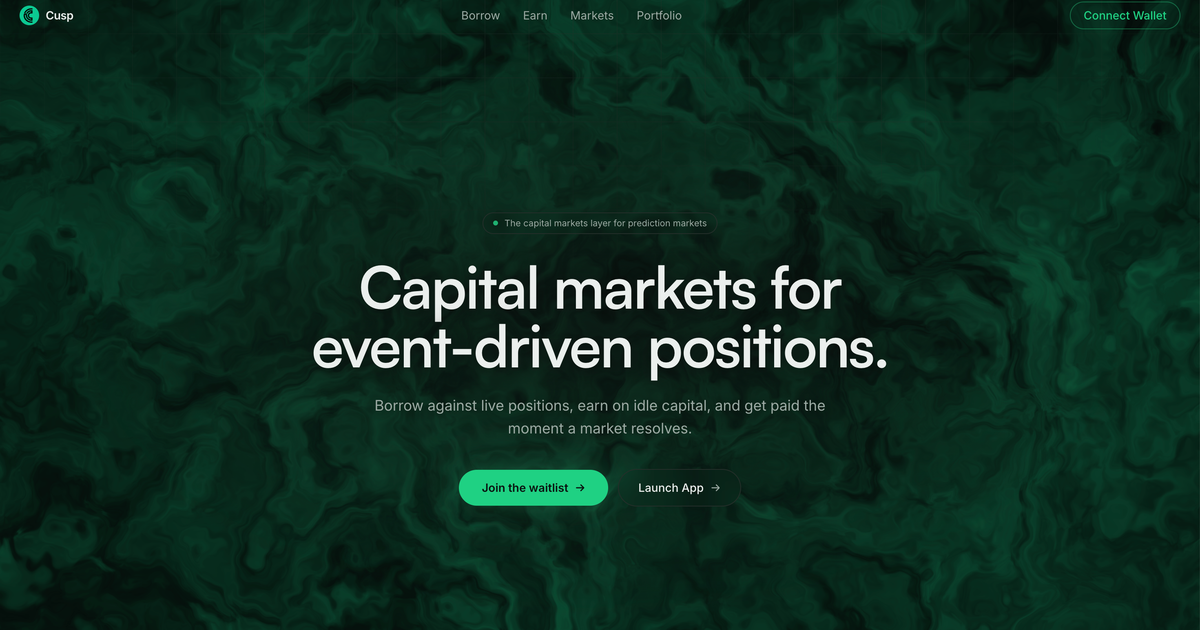
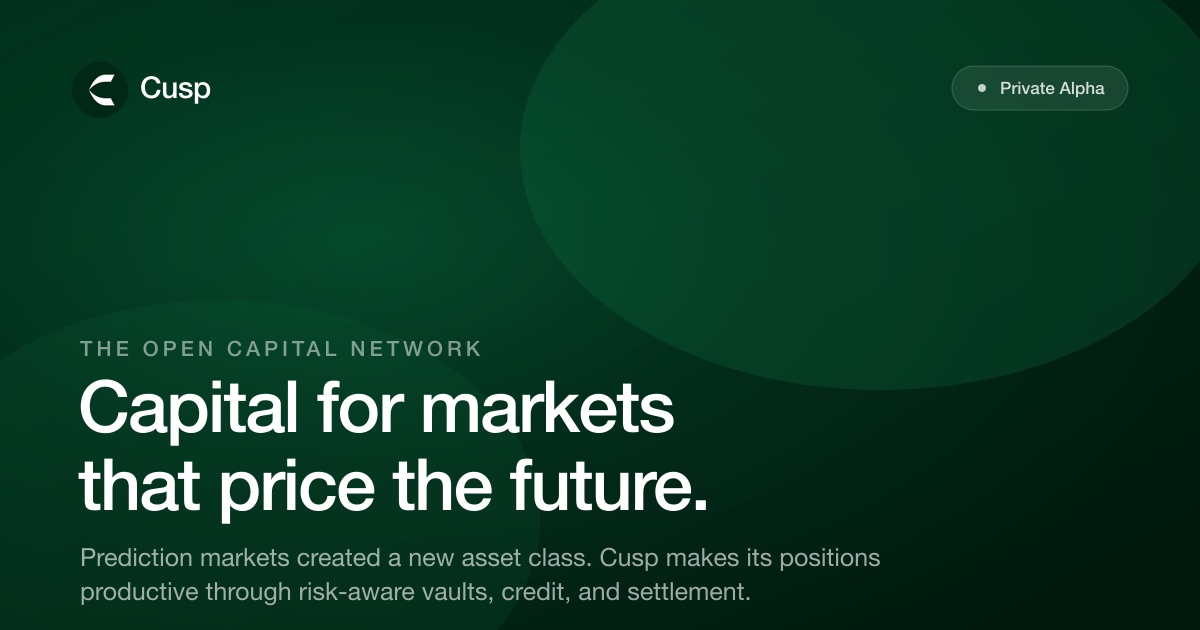
Refresh OG share card and tagline to new branding
- Regenerate og-image.png as a composed on-brand card (dark-green, new
  logo, "Capital for markets that price the future" hero) instead of a
  stale screenshot of the old landing
- Rewrite generate-og-image.mjs to compose the card directly (no capture)
- Update tagline "The capital markets layer for prediction markets" ->
  "Open capital for markets that price the future" across title, OG/Twitter
  meta, SEO default, Index hero, and Footer

diff --git a/index.html b/index.html
@@ -9,7 +9,7 @@
     <meta name="viewport" content="width=device-width, initial-scale=1.0" />
     <meta name="theme-color" content="#1fd184" />
     <meta name="color-scheme" content="dark light" />
-    <title>Cusp — The capital markets layer for prediction markets</title>
+    <title>Cusp — Open capital for markets that price the future</title>
     <meta name="description" content="Cusp is the capital markets layer for prediction markets on Solana. Borrow against live positions, earn on idle capital, and get paid the moment a market resolves.">
     <meta name="keywords" content="prediction markets, Solana, DeFi, lending, borrow, outcome tokens, yield, capital markets, DFlow, Phantom, cUSDC, leverage, liquidation">
     <meta name="author" content="Cusp" />
@@ -26,21 +26,21 @@
     <meta property="og:site_name" content="Cusp" />
     <meta property="og:locale" content="en_US" />
     <meta property="og:url" content="https://beta.cusp.fi/" />
-    <meta property="og:title" content="Cusp — The capital markets layer for prediction markets">
+    <meta property="og:title" content="Cusp — Open capital for markets that price the future">
     <meta property="og:description" content="Cusp is the capital markets layer for prediction markets on Solana. Borrow against live positions, earn on idle capital, and get paid the moment a market resolves.">
     <meta property="og:image" content="https://beta.cusp.fi/og-image.png">
     <meta property="og:image:width" content="1200">
     <meta property="og:image:height" content="630">
-    <meta property="og:image:alt" content="Cusp — The capital markets layer for prediction markets, built on Solana.">
+    <meta property="og:image:alt" content="Cusp — Open capital for markets that price the future, built on Solana.">
 
     <!-- Twitter -->
     <meta name="twitter:card" content="summary_large_image" />
     <meta name="twitter:site" content="@usecusp" />
     <meta name="twitter:creator" content="@usecusp" />
-    <meta name="twitter:title" content="Cusp — The capital markets layer for prediction markets">
+    <meta name="twitter:title" content="Cusp — Open capital for markets that price the future">
     <meta name="twitter:description" content="Cusp is the capital markets layer for prediction markets on Solana. Borrow against live positions, earn on idle capital, and get paid the moment a market resolves.">
     <meta name="twitter:image" content="https://beta.cusp.fi/og-image.png">
-    <meta name="twitter:image:alt" content="Cusp — The capital markets layer for prediction markets, built on Solana.">
+    <meta name="twitter:image:alt" content="Cusp — Open capital for markets that price the future, built on Solana.">
 
     <!-- Structured data -->
     <script type="application/ld+json">
@@ -54,7 +54,7 @@
           "alternateName": "Cusp Protocol",
           "url": "https://beta.cusp.fi/",
           "logo": "https://beta.cusp.fi/cusp.png",
-          "description": "The capital markets layer for prediction markets on Solana.",
+          "description": "Open capital for markets that price the future on Solana.",
           "email": "hello@cusp.fi",
           "sameAs": ["https://x.com/usecusp"]
         },

diff --git a/src/components/Footer.tsx b/src/components/Footer.tsx
@@ -43,7 +43,7 @@ const Footer = () => {
               <span className="text-base font-semibold tracking-tight text-foreground">Cusp</span>
             </div>
             <p className="mx-auto max-w-xs text-xs leading-relaxed text-muted-foreground sm:mx-0">
-              The capital markets layer for prediction markets. Risk, credit, settlement, and liquidation
+              Open capital for markets that price the future. Risk, credit, settlement, and liquidation
               infrastructure for event-driven positions on Solana.
             </p>
             <div className="mt-5 flex items-center justify-center gap-2 sm:justify-start">

diff --git a/src/lib/seo.ts b/src/lib/seo.ts
@@ -4,7 +4,7 @@ export const SITE_NAME = "Cusp";
 export const TWITTER_HANDLE = "@usecusp";
 export const DEFAULT_OG_IMAGE = `${SITE_URL}/og-image.png`;
 
-export const DEFAULT_TITLE = "Cusp — The capital markets layer for prediction markets";
+export const DEFAULT_TITLE = "Cusp — Open capital for markets that price the future";
 export const DEFAULT_DESCRIPTION =
   "Cusp is the capital markets layer for prediction markets on Solana. Borrow against live positions, earn on idle capital, and get paid the moment a market resolves.";
 

diff --git a/src/pages/Index.tsx b/src/pages/Index.tsx
@@ -219,7 +219,7 @@ const Index = () => {
             className="mb-7 inline-flex items-center gap-2 rounded-full border border-border bg-bg-1/70 px-3 py-1 font-mono text-[11px] text-muted-foreground backdrop-blur-sm"
           >
             <span className="h-1.5 w-1.5 rounded-full bg-cusp-teal animate-live-pulse" />
-            The capital markets layer for prediction markets
+            Open capital for markets that price the future
           </motion.div>
 
           <motion.h1
